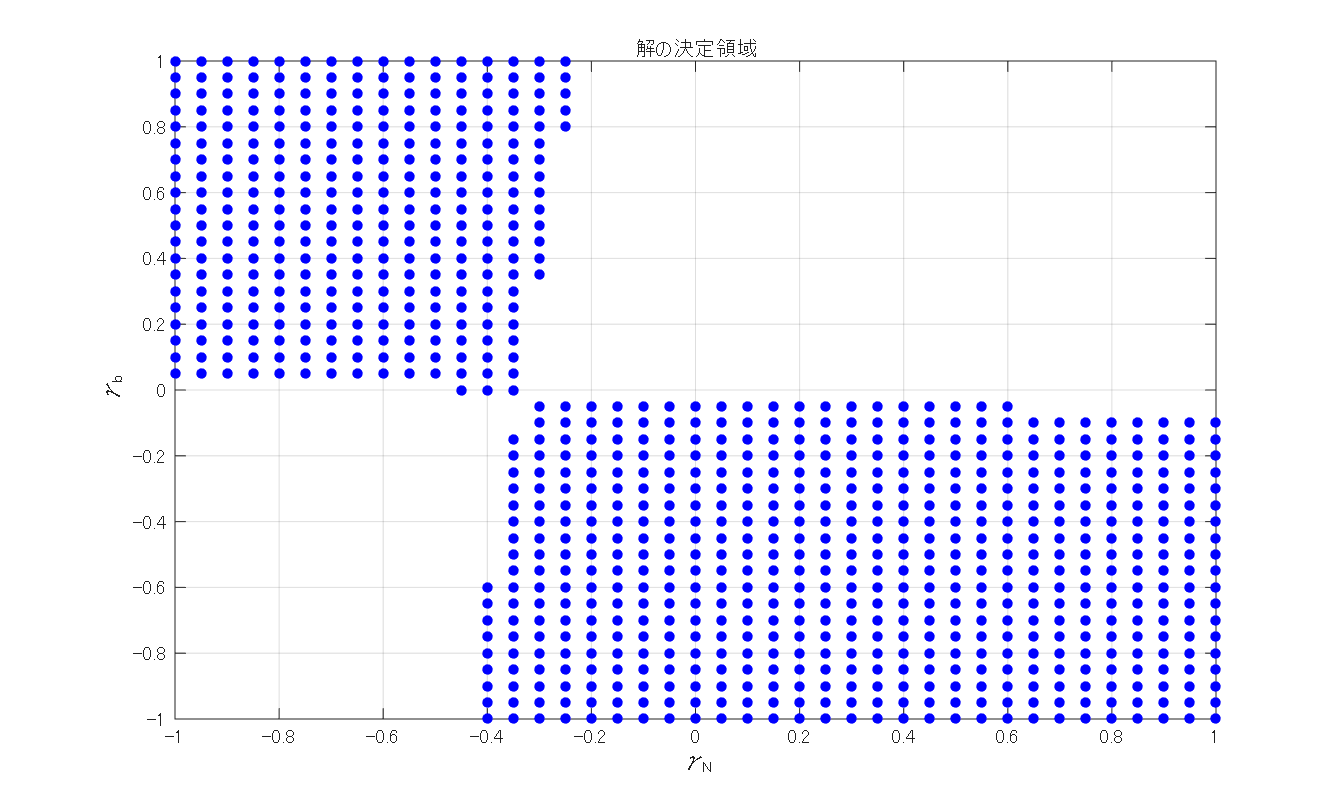
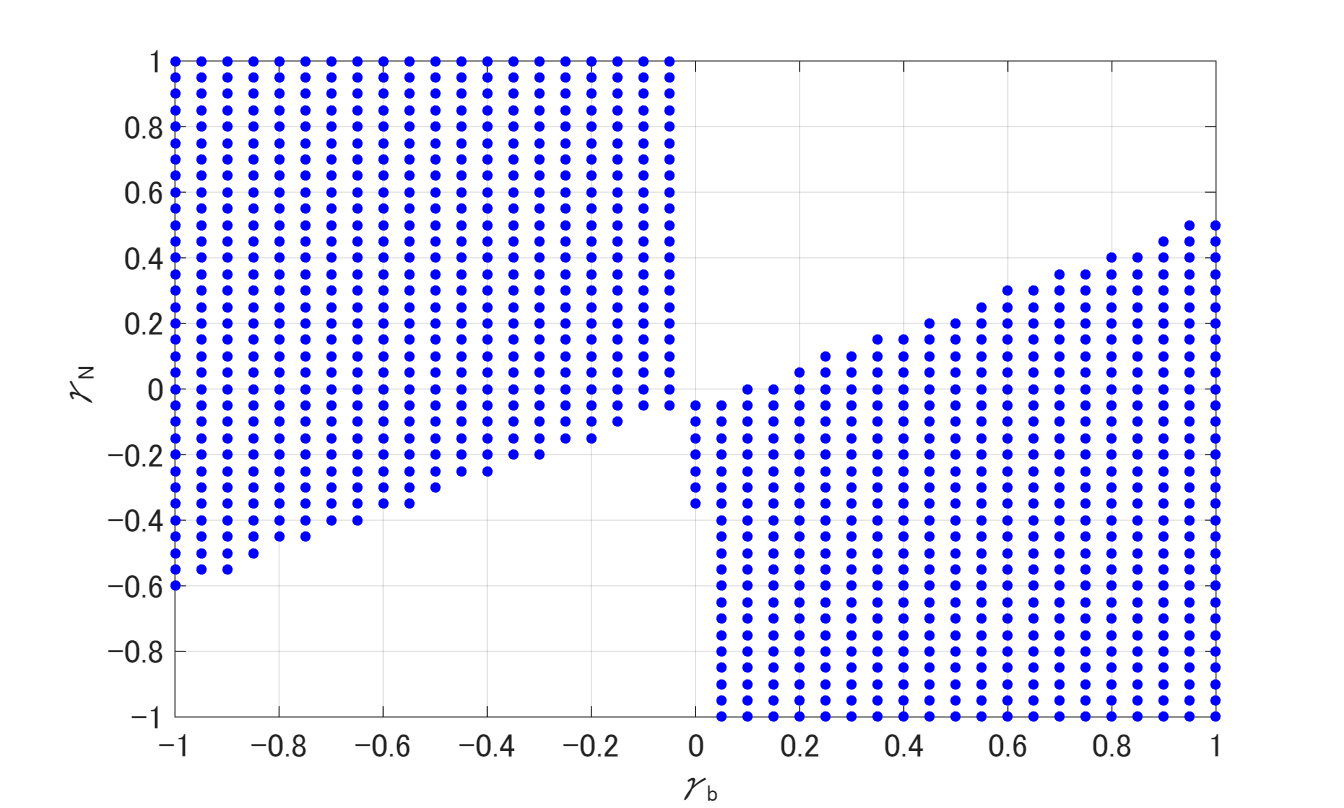
Signed-off-by: Kohsuke KISHIMOTO <kishimoto.research@gmail.com>

diff --git a/progress/code/optimal_simple_rule/blanchard_kahn_sweep/osr_param/latex/osr_param_th_corr_matrix.tex b/progress/code/optimal_simple_rule/blanchard_kahn_sweep/osr_param/latex/osr_param_th_corr_matrix.tex
@@ -1,4 +1,4 @@
-% 07-Aug-2026 13:52:32, created by disp_th_moments.m 
+% 07-Aug-2026 14:30:04, created by disp_th_moments.m 
  
 \begin{center}
 \begin{longtable}{lcccccccccc} 
@@ -13,16 +13,16 @@ $Variables  $	 & 	 $           q$	 & 	 $           k$	 & 	 $           R$	 & 	 $
 \midrule \endhead 
 \midrule \multicolumn{11}{r}{(Continued on next page)} \\ \bottomrule \endfoot 
 \bottomrule \endlastfoot 
-$q          $	 & 	      1.0000	 & 	      0.9999	 & 	      0.0067	 & 	      0.9965	 & 	      0.9832	 & 	     -0.9999	 & 	      0.9952	 & 	      0.2372	 & 	     -0.9814	 & 	      0.9832 \\ 
-$k          $	 & 	      0.9999	 & 	      1.0000	 & 	      0.0008	 & 	      0.9953	 & 	      0.9806	 & 	     -1.0000	 & 	      0.9938	 & 	      0.2503	 & 	     -0.9839	 & 	      0.9806 \\ 
-$R          $	 & 	      0.0067	 & 	      0.0008	 & 	      1.0000	 & 	      0.0435	 & 	      0.0995	 & 	     -0.0008	 & 	      0.0497	 & 	     -0.4492	 & 	      0.0780	 & 	      0.0995 \\ 
-$b          $	 & 	      0.9965	 & 	      0.9953	 & 	      0.0435	 & 	      1.0000	 & 	      0.9950	 & 	     -0.9953	 & 	      0.9999	 & 	      0.1552	 & 	     -0.9619	 & 	      0.9950 \\ 
-$x          $	 & 	      0.9832	 & 	      0.9806	 & 	      0.0995	 & 	      0.9950	 & 	      1.0000	 & 	     -0.9806	 & 	      0.9963	 & 	      0.0561	 & 	     -0.9299	 & 	      1.0000 \\ 
-$k^\prime   $	 & 	     -0.9999	 & 	     -1.0000	 & 	     -0.0008	 & 	     -0.9953	 & 	     -0.9806	 & 	      1.0000	 & 	     -0.9938	 & 	     -0.2503	 & 	      0.9839	 & 	     -0.9806 \\ 
-$N          $	 & 	      0.9952	 & 	      0.9938	 & 	      0.0497	 & 	      0.9999	 & 	      0.9963	 & 	     -0.9938	 & 	      1.0000	 & 	      0.1413	 & 	     -0.9580	 & 	      0.9963 \\ 
-$x^\prime   $	 & 	      0.2372	 & 	      0.2503	 & 	     -0.4492	 & 	      0.1552	 & 	      0.0561	 & 	     -0.2503	 & 	      0.1413	 & 	      1.0000	 & 	     -0.4193	 & 	      0.0561 \\ 
-$b^\prime   $	 & 	     -0.9814	 & 	     -0.9839	 & 	      0.0780	 & 	     -0.9619	 & 	     -0.9299	 & 	      0.9839	 & 	     -0.9580	 & 	     -0.4193	 & 	      1.0000	 & 	     -0.9299 \\ 
-$Y          $	 & 	      0.9832	 & 	      0.9806	 & 	      0.0995	 & 	      0.9950	 & 	      1.0000	 & 	     -0.9806	 & 	      0.9963	 & 	      0.0561	 & 	     -0.9299	 & 	      1.0000 \\ 
+$q          $	 & 	      1.0000	 & 	      0.8066	 & 	      0.1430	 & 	      0.8054	 & 	      0.6618	 & 	     -0.8066	 & 	      0.7584	 & 	      0.6131	 & 	     -0.8075	 & 	      0.6618 \\ 
+$k          $	 & 	      0.8066	 & 	      1.0000	 & 	      0.4358	 & 	      1.0000	 & 	      0.6142	 & 	     -1.0000	 & 	      0.9970	 & 	      0.5731	 & 	     -1.0000	 & 	      0.6142 \\ 
+$R          $	 & 	      0.1430	 & 	      0.4358	 & 	      1.0000	 & 	      0.4365	 & 	     -0.4421	 & 	     -0.4358	 & 	      0.4618	 & 	     -0.4851	 & 	     -0.4353	 & 	     -0.4421 \\ 
+$b          $	 & 	      0.8054	 & 	      1.0000	 & 	      0.4365	 & 	      1.0000	 & 	      0.6136	 & 	     -1.0000	 & 	      0.9972	 & 	      0.5726	 & 	     -1.0000	 & 	      0.6136 \\ 
+$x          $	 & 	      0.6618	 & 	      0.6142	 & 	     -0.4421	 & 	      0.6136	 & 	      1.0000	 & 	     -0.6142	 & 	      0.5906	 & 	      0.9980	 & 	     -0.6146	 & 	      1.0000 \\ 
+$k^\prime   $	 & 	     -0.8066	 & 	     -1.0000	 & 	     -0.4358	 & 	     -1.0000	 & 	     -0.6142	 & 	      1.0000	 & 	     -0.9970	 & 	     -0.5731	 & 	      1.0000	 & 	     -0.6142 \\ 
+$N          $	 & 	      0.7584	 & 	      0.9970	 & 	      0.4618	 & 	      0.9972	 & 	      0.5906	 & 	     -0.9970	 & 	      1.0000	 & 	      0.5516	 & 	     -0.9969	 & 	      0.5906 \\ 
+$x^\prime   $	 & 	      0.6131	 & 	      0.5731	 & 	     -0.4851	 & 	      0.5726	 & 	      0.9980	 & 	     -0.5731	 & 	      0.5516	 & 	      1.0000	 & 	     -0.5735	 & 	      0.9980 \\ 
+$b^\prime   $	 & 	     -0.8075	 & 	     -1.0000	 & 	     -0.4353	 & 	     -1.0000	 & 	     -0.6146	 & 	      1.0000	 & 	     -0.9969	 & 	     -0.5735	 & 	      1.0000	 & 	     -0.6146 \\ 
+$Y          $	 & 	      0.6618	 & 	      0.6142	 & 	     -0.4421	 & 	      0.6136	 & 	      1.0000	 & 	     -0.6142	 & 	      0.5906	 & 	      0.9980	 & 	     -0.6146	 & 	      1.0000 \\ 
 \end{longtable}
  \end{center}
 % End of TeX file.

diff --git a/progress/code/optimal_simple_rule/blanchard_kahn_sweep/osr_param/latex/osr_param_th_moments.tex b/progress/code/optimal_simple_rule/blanchard_kahn_sweep/osr_param/latex/osr_param_th_moments.tex
@@ -1,28 +1,28 @@
-% 07-Aug-2026 13:52:32, created by disp_th_moments.m 
+% 07-Aug-2026 14:30:04, created by disp_th_moments.m 
  
 \begin{center}
 \begin{longtable}{lccc} 
 \caption{THEORETICAL MOMENTS}\\
  \label{Table:th_moments}\\
 \toprule 
-$VARIABLE  $	 & 	 $          MEAN$	 & 	 $     STD. DEV.$	 & 	 $      VARIANCE$\\
+$VARIABLE  $	 & 	 $              MEAN$	 & 	 $         STD. DEV.$	 & 	 $          VARIANCE$\\
 \midrule \endfirsthead 
 \caption{(continued)}\\
  \toprule \\ 
-$VARIABLE  $	 & 	 $          MEAN$	 & 	 $     STD. DEV.$	 & 	 $      VARIANCE$\\
+$VARIABLE  $	 & 	 $              MEAN$	 & 	 $         STD. DEV.$	 & 	 $          VARIANCE$\\
 \midrule \endhead 
 \midrule \multicolumn{4}{r}{(Continued on next page)} \\ \bottomrule \endfoot 
 \bottomrule \endlastfoot 
-$q         $	 & 	       32.8507	 & 	        7.0944	 & 	       50.3308 \\ 
-$k         $	 & 	        4.4122	 & 	        2.5071	 & 	        6.2855 \\ 
-$R         $	 & 	        1.0135	 & 	        0.0819	 & 	        0.0067 \\ 
-$b         $	 & 	      143.0126	 & 	      111.0013	 & 	    12321.2979 \\ 
-$x         $	 & 	        0.0406	 & 	        0.0231	 & 	        0.0005 \\ 
-$k^\prime  $	 & 	        2.2078	 & 	        2.5071	 & 	        6.2855 \\ 
-$N         $	 & 	       41.8193	 & 	      105.7987	 & 	    11193.3734 \\ 
-$x^\prime  $	 & 	        6.2205	 & 	       14.1242	 & 	      199.4933 \\ 
-$b^\prime  $	 & 	     -101.1933	 & 	        5.4195	 & 	       29.3711 \\ 
-$Y         $	 & 	        3.4532	 & 	        0.2893	 & 	        0.0837 \\ 
+$q         $	 & 	           32.8507	 & 	          190.2118	 & 	        36180.5261 \\ 
+$k         $	 & 	            4.4122	 & 	          383.4261	 & 	       147015.5606 \\ 
+$R         $	 & 	            1.0135	 & 	            4.2220	 & 	           17.8250 \\ 
+$b         $	 & 	          143.0126	 & 	        13239.2662	 & 	    175278169.1255 \\ 
+$x         $	 & 	            0.0406	 & 	            3.5314	 & 	           12.4705 \\ 
+$k^\prime  $	 & 	            2.2078	 & 	          383.4261	 & 	       147015.5606 \\ 
+$N         $	 & 	           41.8193	 & 	          594.5496	 & 	       353489.1676 \\ 
+$x^\prime  $	 & 	            6.2205	 & 	          359.7887	 & 	       129447.8756 \\ 
+$b^\prime  $	 & 	         -101.1933	 & 	        12646.4882	 & 	    159933662.6066 \\ 
+$Y         $	 & 	            3.4532	 & 	           44.2415	 & 	         1957.3127 \\ 
 \end{longtable}
  \end{center}
 % End of TeX file.

diff --git a/progress/code/optimal_simple_rule/blanchard_kahn_sweep/bk_bN.m b/progress/code/optimal_simple_rule/blanchard_kahn_sweep/bk_bN.m
@@ -41,12 +41,12 @@ end
 
 xlabel('\gamma_b')
 ylabel('\gamma_N')
-title('Region satisfying BK conditions')
 xlim([-1 1])
 ylim([-1 1])
+fontsize(16,"points")
 grid on
 box on
 
-cd C:\Users\Kohsu\OneDrive\Desktop\graduation_thesis\code\osr\blanchard_kahn_sweep\output
-saveas(gcf,'bk_qb.png')
-cd C:\Users\Kohsu\OneDrive\Desktop\graduation_thesis\code\osr\blanchard_kahn_sweep
+cd C:\Users\Kohsu\Desktop\graduation_thesis\progress\code\optimal_simple_rule\blanchard_kahn_sweep\output
+saveas(gcf,'bk_bN.png')
+cd C:\Users\Kohsu\Desktop\graduation_thesis\progress\code\optimal_simple_rule\blanchard_kahn_sweep

diff --git a/progress/code/optimal_simple_rule/blanchard_kahn_sweep/bk_qN.m b/progress/code/optimal_simple_rule/blanchard_kahn_sweep/bk_qN.m
@@ -41,12 +41,12 @@ end
 
 xlabel('\gamma_q')
 ylabel('\gamma_N')
-title('Region satisfying BK conditions')
 xlim([-1 1])
 ylim([-1 1])
+fontsize(16,"points")
 grid on
 box on
 
-cd C:\Users\Kohsu\OneDrive\Desktop\graduation_thesis\code\osr\blanchard_kahn_sweep\output
-saveas(gcf,'bk_qb.png')
-cd C:\Users\Kohsu\OneDrive\Desktop\graduation_thesis\code\osr\blanchard_kahn_sweep
+cd C:\Users\Kohsu\Desktop\graduation_thesis\progress\code\optimal_simple_rule\blanchard_kahn_sweep\output
+saveas(gcf,'bk_qN.png')
+cd C:\Users\Kohsu\Desktop\graduation_thesis\progress\code\optimal_simple_rule\blanchard_kahn_sweep

diff --git a/progress/code/optimal_simple_rule/blanchard_kahn_sweep/bk_qb.m b/progress/code/optimal_simple_rule/blanchard_kahn_sweep/bk_qb.m
@@ -41,12 +41,12 @@ end
 
 xlabel('\gamma_q')
 ylabel('\gamma_b')
-title('Region satisfying BK conditions')
 xlim([-1 1])
 ylim([-1 1])
+fontsize(16,"points")
 grid on
 box on
 
-cd C:\Users\Kohsu\OneDrive\Desktop\graduation_thesis\code\osr\blanchard_kahn_sweep\output
+cd C:\Users\Kohsu\Desktop\graduation_thesis\progress\code\optimal_simple_rule\blanchard_kahn_sweep\output
 saveas(gcf,'bk_qb.png')
-cd C:\Users\Kohsu\OneDrive\Desktop\graduation_thesis\code\osr\blanchard_kahn_sweep
+cd C:\Users\Kohsu\Desktop\graduation_thesis\progress\code\optimal_simple_rule\blanchard_kahn_sweep

diff --git a/progress/code/optimal_simple_rule/blanchard_kahn_sweep/osr_param/latex/osr_param_covar_ex_shocks.tex b/progress/code/optimal_simple_rule/blanchard_kahn_sweep/osr_param/latex/osr_param_covar_ex_shocks.tex
@@ -1,4 +1,4 @@
-% 07-Aug-2026 13:52:32, created by stoch_simul.m 
+% 07-Aug-2026 14:30:04, created by stoch_simul.m 
  
 \begin{center}
 \begin{longtable}{lc} 

diff --git a/progress/code/optimal_simple_rule/blanchard_kahn_sweep/osr_param/graphs/osr_param_IRF.tex b/progress/code/optimal_simple_rule/blanchard_kahn_sweep/osr_param/graphs/osr_param_IRF.tex
@@ -1,5 +1,5 @@
 % TeX eps-loader file generated by stoch_simul.m (Dynare).
-% 07-Aug-2026 13:52:32
+% 07-Aug-2026 14:30:04
  
  
 % End Of TeX file. 
